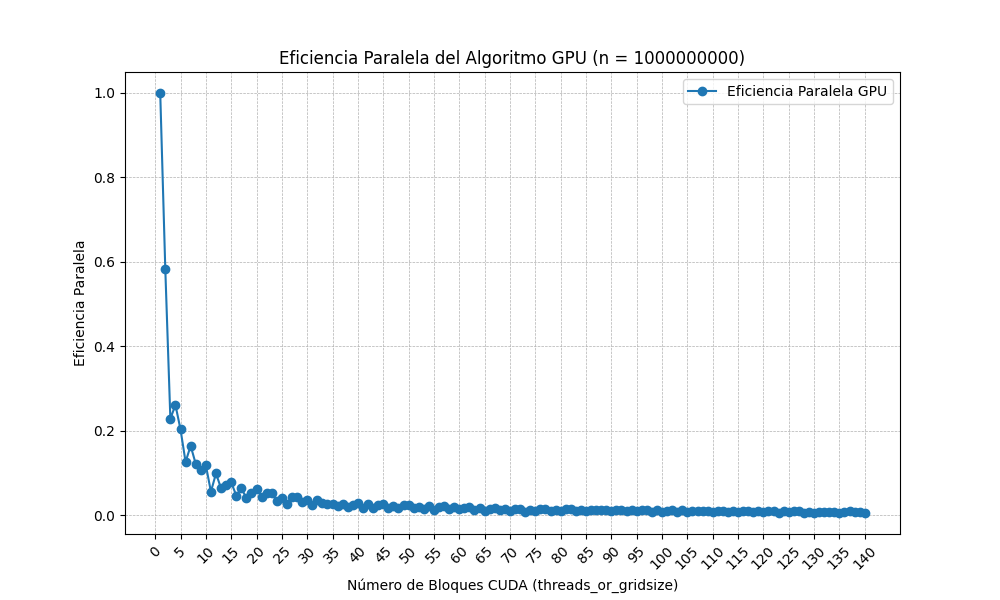
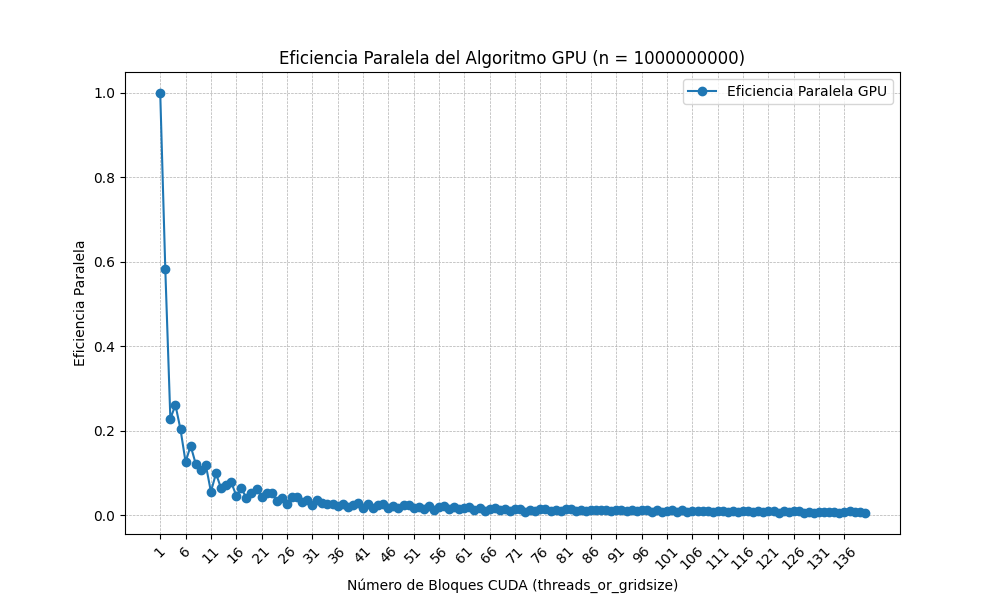
fix y updates

diff --git a/src/benchmark_d.py b/src/benchmark_d.py
@@ -1,38 +1,40 @@
 import pandas as pd
 import matplotlib.pyplot as plt
 
-# Ruta del archivo CSV
+
 csv_path = "../resultados/benchmark_results.csv"
 
-# Leer los datos del CSV
+
 column_names = ["n", "mode", "threads_or_gridsize", "time"]
 df = pd.read_csv(csv_path, header=None, names=column_names)
 
-# Filtrar solo datos para GPU (mode == 1)
+# filtrar solo datos para GPU (mode == 1)
 df_gpu = df[df["mode"] == 1]
 
-# Tomar un valor alto de 'n' (puedes cambiar este valor si prefieres otro tamaño de problema)
+# filtro de un valor alto de 'n'
 n_fixed = df_gpu["n"].max()
 
-# Filtrar los datos para ese tamaño de problema
+# filtrar los datos para ese tamaño de problema
 df_fixed_gpu = df_gpu[df_gpu["n"] == n_fixed]
 
-# Promediar los tiempos por número de bloques o threads
+df_fixed_gpu = df_fixed_gpu[(df_fixed_gpu["threads_or_gridsize"] >= 1) & (df_fixed_gpu["threads_or_gridsize"] <= 140)]
+
+# promedio los tiempos por numerode bloques o threads
 df_avg_gpu = df_fixed_gpu.groupby("threads_or_gridsize")["time"].mean().reset_index()
 
-# Verificar si hay un registro con threads_or_gridsize == 1
+# revisar si hay un registro con threads_or_gridsize == 1
 if 1 in df_avg_gpu["threads_or_gridsize"].values:
-    # Calcular el tiempo con 1 bloque (base para el speedup)
+    # calcular el tiempo con 1 bloque (base para el speedup)
     base_time = df_avg_gpu[df_avg_gpu["threads_or_gridsize"] == 1]["time"].values[0]
 else:
-    print("No se encontró un registro con threads_or_gridsize == 1. Usando el tiempo con el valor más bajo.")
-    # Si no se encuentra el valor 1, podemos usar el valor más cercano a 1 (el más bajo disponible)
+    print("No se encontro un registro con threads_or_gridsize == 1. Usando el tiempo con el valor mas bajo.")
+    # si  el valor 1 no esta, se usa el valor mascercano a 1 (el mas bajo disponible)
     base_time = df_avg_gpu["time"].min()
 
-# Calcular el speedup
+# calcular el speedup
 df_avg_gpu["speedup"] = base_time / df_avg_gpu["time"]
 
-# Graficar Speedup vs Número de Bloques
+# Graficar Speedup vs numerp de Bloques
 plt.figure(figsize=(10, 6))
 plt.plot(df_avg_gpu["threads_or_gridsize"], df_avg_gpu["speedup"], marker="o", label="Speedup GPU")
 plt.xlabel("Número de Bloques CUDA (threads_or_gridsize)")
@@ -40,10 +42,10 @@ plt.ylabel("Speedup")
 plt.title(f"Speedup del Algoritmo GPU (n = {n_fixed})")
 plt.grid(True, linestyle="--", linewidth=0.5)
 
-# Ajustar los ticks del eje X
-plt.xticks(df_avg_gpu["threads_or_gridsize"].astype(int)[::5])  # Mostrar cada 5 valor del eje X (ajustar según el rango)
+# ajustar los ticks del eje X
+plt.xticks(df_avg_gpu["threads_or_gridsize"].astype(int)[::5])  # mostrar cada 5 valor del eje X 
 
-# Rotar las etiquetas del eje X para mejorar la legibilidad
+# rotar las etiquetas del eje X para mejorar la legibilidad
 plt.xticks(rotation=45)
 
 plt.legend()

diff --git a/src/benchmark_e.py b/src/benchmark_e.py
@@ -1,41 +1,40 @@
 import pandas as pd
 import matplotlib.pyplot as plt
 
-# Ruta del archivo CSV
+
 csv_path = "../resultados/benchmark_results.csv"
 
-# Leer los datos del CSV
 column_names = ["n", "mode", "threads_or_gridsize", "time"]
 df = pd.read_csv(csv_path, header=None, names=column_names)
 
-# Filtrar solo datos para GPU (mode == 1)
+#  solo datos para GPU (mode == 1)
 df_gpu = df[df["mode"] == 1]
 
-# Tomar un valor alto de 'n' (puedes cambiar este valor si prefieres otro tamaño de problema)
 n_fixed = df_gpu["n"].max()
 
-# Filtrar los datos para ese tamaño de problema
+# filtro de  los datos para ese tamaño de problema
 df_fixed_gpu = df_gpu[df_gpu["n"] == n_fixed]
 
-# Promediar los tiempos por número de bloques o threads
+df_fixed_gpu = df_fixed_gpu[(df_fixed_gpu["threads_or_gridsize"] >= 1) & (df_fixed_gpu["threads_or_gridsize"] <= 140)]
+
+# promedio de los tiempos por numero de bloques o threads
 df_avg_gpu = df_fixed_gpu.groupby("threads_or_gridsize")["time"].mean().reset_index()
 
-# Verificar si hay un registro con threads_or_gridsize == 1
+# verificar si hay un registro con threads_or_gridsize == 1
 if 1 in df_avg_gpu["threads_or_gridsize"].values:
-    # Calcular el tiempo con 1 bloque (base para el speedup)
+    # calcular el tiempo con 1 bloque (base para el speedup)
     base_time = df_avg_gpu[df_avg_gpu["threads_or_gridsize"] == 1]["time"].values[0]
 else:
     print("No se encontró un registro con threads_or_gridsize == 1. Usando el tiempo con el valor más bajo.")
-    # Si no se encuentra el valor 1, podemos usar el valor más cercano a 1 (el más bajo disponible)
     base_time = df_avg_gpu["time"].min()
 
-# Calcular el speedup
+# calcular el speedup
 df_avg_gpu["speedup"] = base_time / df_avg_gpu["time"]
 
-# Calcular la eficiencia paralela
+# calcular la eficiencia paralela
 df_avg_gpu["efficiency"] = df_avg_gpu["speedup"] / df_avg_gpu["threads_or_gridsize"]
 
-# Graficar Eficiencia Paralela vs Número de Bloques
+# grafico de  Eficiencia Paralela vs numero de Bloques
 plt.figure(figsize=(10, 6))
 plt.plot(df_avg_gpu["threads_or_gridsize"], df_avg_gpu["efficiency"], marker="o", label="Eficiencia Paralela GPU")
 plt.xlabel("Número de Bloques CUDA (threads_or_gridsize)")
@@ -43,10 +42,10 @@ plt.ylabel("Eficiencia Paralela")
 plt.title(f"Eficiencia Paralela del Algoritmo GPU (n = {n_fixed})")
 plt.grid(True, linestyle="--", linewidth=0.5)
 
-# Ajustar los ticks del eje X para que comiencen desde 1
+# ajustar los ticks del eje X para que comiencen desde 1
 plt.xticks(df_avg_gpu["threads_or_gridsize"].astype(int)[::5])
 
-# Rotar las etiquetas del eje X para mejorar la legibilidad
+# rotar las etiquetas del eje X para mejorar la legibilidad
 plt.xticks(rotation=45)
 
 plt.legend()

diff --git a/src/benchmark_a.py b/src/benchmark_a.py
@@ -1,21 +1,43 @@
 import pandas as pd
 import matplotlib.pyplot as plt
 
-
 csv_path = "../resultados/benchmark_results.csv"
 
-# read  datos del csv  y asignar nombres a las columnas manualmente
+
 column_names = ["n", "mode", "threads_or_gridsize", "time"]
 df = pd.read_csv(csv_path, header=None, names=column_names)
 
-# promedio de  los tiempos por configuración (agrupando por n y mode)
-df_avg = df.groupby(["n", "mode"])["time"].mean().reset_index()
+# Eliminar posibles espacios en blanco de los nombres de las columnas
+df.columns = df.columns.str.strip()
 
-# filtro datos para CPU (mode = 0) con threads_or_gridsize == 8 y GPU (mode = 1) con threads_or_gridsize == 0
+# Promedio de los tiempos por configuración (agrupando por n y mode)
+df_avg = df.groupby(["n", "mode", "threads_or_gridsize"])["time"].mean().reset_index()
+
+
+# valores de la entrada n
+n_values = [1000, 3000, 10000, 30000, 100000, 300000, 1000000, 3000000, 10000000, 30000000, 100000000, 300000000, 1000000000]
+
+# diccionario para almacenar los resultados filtrados por cada valor de n
+gpu_data_filtered = {}
+
+# iterar los valores de n
+for n in n_values:
+    # calcular threads_or_gridsize para cada valor de n, ya que para el primer experimento, se hace sin asignar threads de manera manual
+    threads_or_gridsize = (n + 255) // 256
+    
+    # filtro en el df para obtener solo los registros de GPU y el threads_or_gridsize calculado
+    gpu_data = df_avg[(df_avg["n"] == n) & (df_avg["mode"] == 1) & (df_avg["threads_or_gridsize"] == threads_or_gridsize)]
+    
+    # guardar resultado en el diccionario
+    gpu_data_filtered[n] = gpu_data
+
+# obtener los datos filtrados para GPU (Radix Sort) y CPU (Merge Sort)
 cpu_data = df_avg[(df_avg["mode"] == 0) & (df_avg["threads_or_gridsize"] == 8)]
-gpu_data = df_avg[(df_avg["mode"] == 1) & (df_avg["threads_or_gridsize"] == 0)]
 
-# grafico tiemmpo vs n
+# concatenar los datos filtrados para GPU en un solo DataFrame
+gpu_data = pd.concat(gpu_data_filtered.values())
+
+# Graficar tiempo vs n
 plt.figure(figsize=(10, 6))
 plt.plot(cpu_data["n"], cpu_data["time"], label="CPU (Merge Sort)", marker="o")
 plt.plot(gpu_data["n"], gpu_data["time"], label="GPU (Radix Sort)", marker="x")
